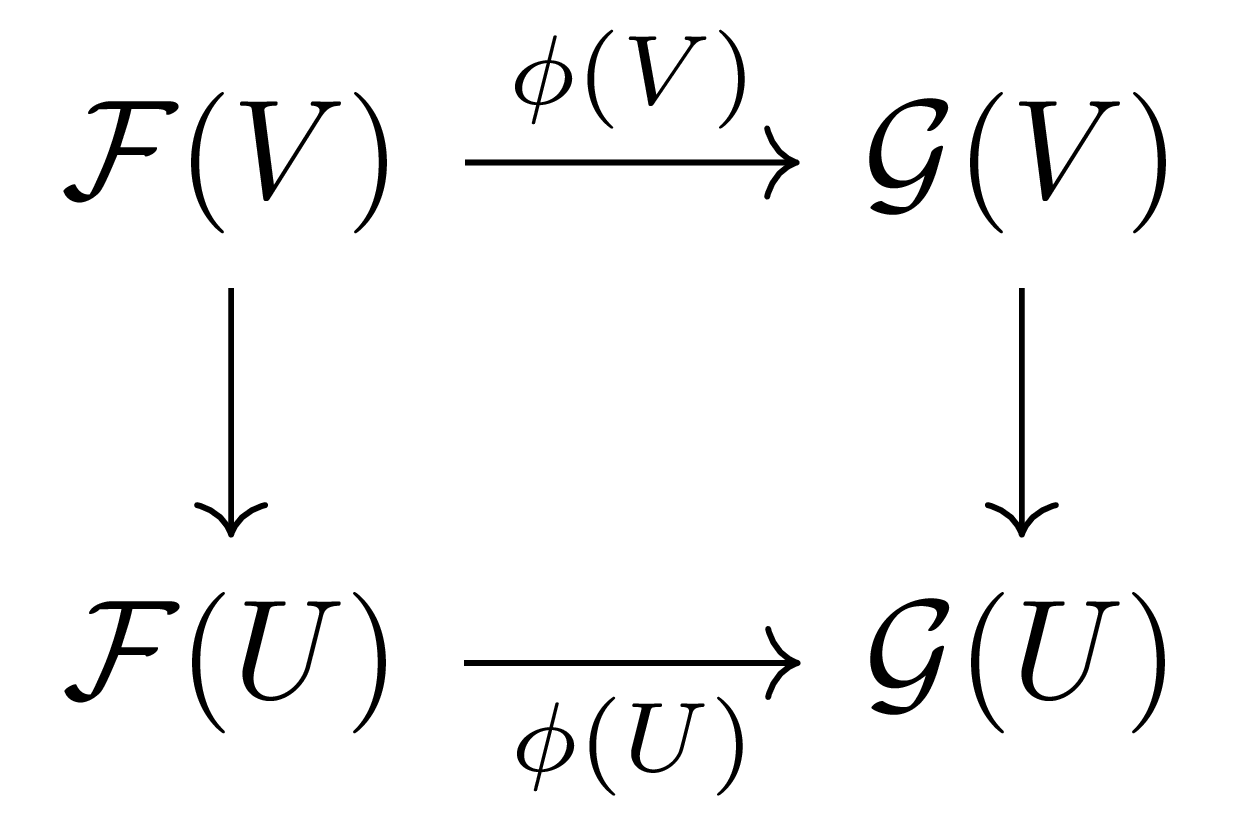
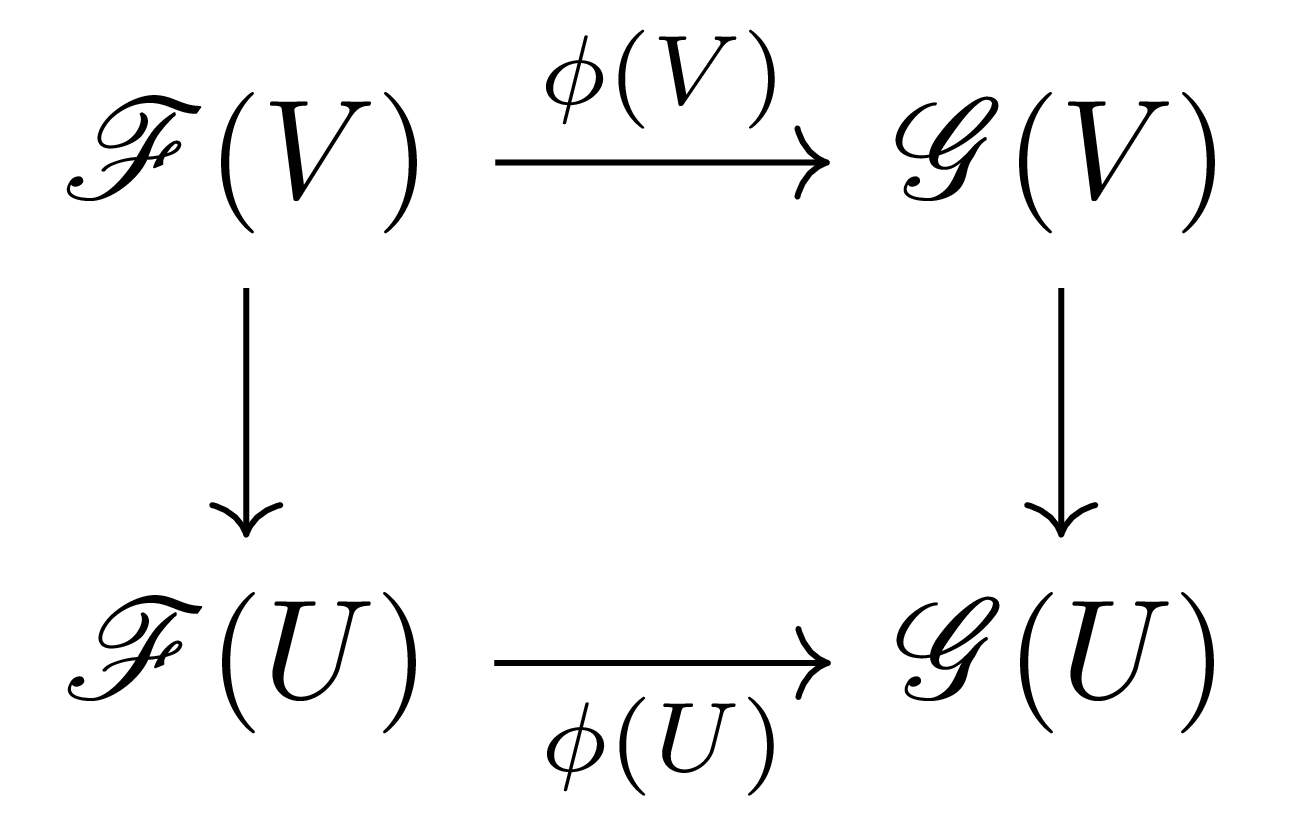
Posts (~20231114)

diff --git a/_includes/scripts.html b/_includes/scripts.html
@@ -109,6 +109,7 @@
               "\\Omat":"\\operatorname{O}",
               "\\Umat":"\\operatorname{U}",
               "\\Spec":"\\operatorname{Spec}",
+              "\\Proj":"\\operatorname{Proj}",
               "\\Stab":"\\operatorname{Stab}",
               "\\Frac":"\\operatorname{Frac}",
               "\\proj":"\\operatorname{proj}",

diff --git a/_posts/Math/Algebraic_Geometry/ko/2023-11-01-Schemes.md b/_posts/Math/Algebraic_Geometry/ko/2023-11-01-Schemes.md
@@ -39,8 +39,58 @@ Structure sheaf에 대한 정보 없이, $X$를 위상공간으로만 취급할 
 
 <div class="example" markdown="1">
 
-<ins id="ex3">**예시 3**</ins> Field $k$에 대하여, *affine $n$-space* $\mathbf{A}_k^n$을 affine scheme $\Spec k[x_1,\ldots, x_n]$으로 정의한다. $\mathbf{A}
-_k^n$는 아주 많은 점들을 가지고 있지만, 만일 $k$가 algebraically closed라면 Hilbert's Nullstellensatz에 의해 $\mathbf{A}_k^n$의 *closed* point들, 즉 $k[x_1,\ldots, x_n]$의 maximal ideal들은 정확히 $(x_1-a_1,\ldots, x_n-a_n)$의 꼴을 갖는 ideal들이라는 것을 안다. 이들은 각각 $k^n$의 점 $(a_1,\ldots, a_n)$에 대응되는 것으로 생각할 수 있다.
-
+<ins id="ex3">**예시 3**</ins> Field $k$에 대하여, *affine $n$-space* $\mathbb{A}_k^n$을 affine scheme $\Spec k[x_1,\ldots, x_n]$으로 정의한다. $\mathbb{A}
+_k^n$는 아주 많은 점들을 가지고 있지만, 만일 $k$가 algebraically closed라면 Hilbert's Nullstellensatz에 의해 $\mathbb{A}_k^n$의 *closed* point들, 즉 $k[x_1,\ldots, x_n]$의 maximal ideal들은 정확히 $(x_1-a_1,\ldots, x_n-a_n)$의 꼴을 갖는 ideal들이라는 것을 안다. 이들은 각각 $k^n$의 점 $(a_1,\ldots, a_n)$에 대응되는 것으로 생각할 수 있다.
 
 </div>
+
+Scheme을 이루는 정보들은 모두 작은 조각을 붙여서 global한 정보를 얻어낼 수 있게 되어 있으므로, 두 scheme을 붙이는 방법 또한 존재해야 한다.
+
+<div class="example" markdown="1">
+
+<ins id="ex4">**예시 4**</ins> 두 scheme $X\_1,X\_2$가 주어졌다 하고, 두 열린집합 $U\_1\subseteq X\_1$, $U\_2\subseteq X\_2$에 대하여 isomorphism $\phi:(U\_1,\mathscr{O}\_{X\_1}\vert\_{U\_1}) \rightarrow (U\_2,\mathscr{O}\_{X\_2}\vert\_{U\_2})$가 주어졌다 하자. 
+
+그럼 우선 $\phi$를 통해 $X\_1$과 $X\_2$를 위상공간으로서 붙여서 새로운 위상공간 $X=X\_1\cup\_\phi X\_2$를 만들 수 있다. 또, structure sheaf의 경우에는 함수를 정의할 때 $X$에서 $X_1$과 $X_2$이 만나는 부분에서 compatible한 함수들만 모아두면 된다. 즉 임의의 열린집합 $V\subseteq X$에 대하여, 
+
+$$\mathscr{O}_X(V)=\{(s_1, s_2):s_\alpha\in \mathscr{O}_{X_\alpha}(i^{-1}_\alpha(V)),\quad \phi(s_1\vert_{i_1^{-1}(V)\cap U_1})=s_2\vert_{i_2^{-1}(V)\cap U_2}\}$$
+
+으로 정의한다. 
+
+</div>
+
+## Projective scheme
+
+이제 우리는 projective scheme을 정의한다. 이는 graded ring $S=\bigoplus\_{d=0}^\infty S\_d$로부터 얻어진다. $S$의 ideal $\bigoplus\_{d>0}S\_d$를 $S\_+$로 적자. 그럼 집합으로서 $\Proj S$는 $S_+$를 포함하지 않는 homogeneous prime ideal들의 모임이다. 이 위에 위상구조를 주기 위해 우리는 [§Locally ringed space, ⁋보조정리 1](/ko/math/algebraic_geometry/locally_ringed_spaces#lem1)과 비슷한 다음 보조정리를 사용한다.
+
+<div class="proposition" markdown="1">
+
+<ins id="lem5">**보조정리 5**</ins> (Hart 2.4)
+
+</div>
+
+이 보조정리의 결과에 의하여 $\Proj S$는 위상공간이 된다. 
+
+이제 $\Proj S$를 scheme으로 보기 위해서는 이 위에 structure sheaf를 정의해야 한다. 각각의 $\mathfrak{p}\in \Proj S$에 대하여, $\mathfrak{p}$에 속하지 않는 homogeneous element들을 역원으로 넣어줘서 생긴 ring을 $S_{(\mathfrak{p})}$라 하자. 그럼 [§Locally ringed space, ⁋보조정리 1](/ko/math/algebraic_geometry/locally_ringed_spaces#lem1) 이후에 정의한 것과 마찬가지로, $\mathscr{O}(U)$의 원소들을 각 점 $\mathfrak{p}$에서의 값이 $S_{(\mathfrak{p})}$에 속하는 함수 $s:U \rightarrow\coprod S_{(\mathfrak{p}}$들 중, $s$가 local하게는 $S$의 원소의 quotient로 쓰여지는 함수들의 모임으로 정의하면 된다. 
+
+다음 명제는 [§Locally ringed space, ⁋명제 4](/ko/math/algebraic_geometry/locally_ringed_spaces#pp4)에 대응되는 명제이다.
+
+<div class="proposition" markdown="1">
+
+<ins id="prop6">**명제 6**</ins> 위에서 정의한 $(\Proj S, \mathscr{O})$에 대하여 다음이 성립한다.
+
+1. 임의의 $\mathfrak{p}\in \Proj S$에 대하여, $\mathscr{O}/\\_{\mathfrak{p}}$는 $S\_{(\mathfrak{p})}$와 isomorphic하다.
+2. 임의의 homogeneous element $f\in A$에 대하여, $D_+(f)=\\{\mathfrak{p}\in\Proj S: f\not\in \mathfrak{p}\\}$로 정의하면 $D_+(f)$들은 $\Proj S$의 open cover가 되며, locally ringed space들 사이의 isomorphism
+    
+    $$(D_+(f),\mathscr{O}\vert_{D_+(f)}\cong\Spec S_{(f)}$$
+
+    이 존재한다. 여기서 $S_{(f)}$는 $S_f$의 degree $0$ part이다.
+3. 따라서 $\Proj S$는 scheme이다.
+
+</div>
+<details class="proof" markdown="1">
+<summary>증명</summary>
+
+
+
+</details>
+

diff --git a/_posts/Math/Algebraic_Geometry/ko/2023-11-04-Properties_of_schemes.md b/_posts/Math/Algebraic_Geometry/ko/2023-11-04-Properties_of_schemes.md
@@ -1,0 +1,19 @@
+---
+
+title: "스킴의 성질들"
+excerpt: ""
+
+categories: [Math / Algebraic Geometry]
+permalink: /ko/math/algebraic_geometry/properties_of_schemes
+header:
+    overlay_image: /assets/images/Math/Algebraic_Geometry/Properties_of_schemes.png
+    overlay_filter: 0.5
+sidebar: 
+    nav: "algebraic_geometry-ko"
+
+date: 2023-11-04
+last_modified_at: 2023-11-04
+weight: 5
+
+---
+

diff --git a/_posts/Math/Algebraic_Geometry/ko/2023-04-15-Presheaves.md b/_posts/Math/Algebraic_Geometry/ko/2023-04-15-Presheaves.md
@@ -115,7 +115,7 @@ $$\bigl((\mathscr{F}(U))_{U\in\mathscr{T}},(\rho_{VU})_{V\leq U}\bigr)$$
 - 각각의 열린집합 $U\subseteq X$마다, $U\mapsto \ker(\phi(U))$
 - 포함관계에 있는 두 열린집합 $U\subseteq V$마다 다음의 diagram
   
-  img
+  ![presheaf_kernel-1](/assets/images/Math/Algebraic_Geometry/Presheaves-2.png){:width="421.05px" class="invert" .align-center}
 
   을 통해 유일하게 결정되는 restriction map $\rho_{VU}:\ker(\phi(V))\rightarrow\ker(\phi(U))$
 
@@ -133,16 +133,22 @@ $$\bigl((\mathscr{F}(U))_{U\in\mathscr{T}},(\rho_{VU})_{V\leq U}\bigr)$$
 <details class="proof" markdown="1">
 <summary>증명</summary>
 
-다음의 두 diagram
+다음의 diagram
 
-img
+![presheaf_kernel-2](/assets/images/Math/Algebraic_Geometry/Presheaves-3.png){:width="438.75px" class="invert" .align-center}
 
 와 kernel의 universal property에 의해 자명하다. 
 
 </details>
 
-이와 마찬가지 방법으로, *presheaf cokernel*, *presheaf image*, *presheaf coimage* 혹은 *presheaf quotient* 등등을 모두 정의할 수 있다. 두 presheaf $\mathscr{F},\mathscr{G}$의 coproduct $\mathscr{F}\oplus\mathscr{G}$는 $U\mapsto \mathscr{F}(U)\times\mathscr{G}(U)$으로 정의된다. 
+이와 마찬가지 방법으로, *presheaf cokernel*, *presheaf image*, *presheaf coimage* 혹은 *presheaf quotient* 등등을 모두 정의할 수 있다. 두 presheaf $\mathscr{F},\mathscr{G}$의 coproduct $\mathscr{F}\oplus\mathscr{G}$는 $U\mapsto \mathscr{F}(U)\times\mathscr{G}(U)$으로 정의된다. 따라서 주어진 위상공간 $X$ 위에서 정의된 abelian presheaf들의 카테고리 $\PSh^\Ab(X)$은 abelian category가 된다.
 
-a
+---
+**참고문헌**
+
+**[Har]** R. Hartshorne, *Algebraic geometry*. Graduate texts in mathematics. Springer, 1977.  
+**[Vak]** R. Vakil, *The rising sea: Foundation of algebraic geometry*. Available [online](https://math.stanford.edu/~vakil/216blog/). 
+
+---
 
 [^1]: Functor $\mathscr{F}$가 contravariant이기 때문에, 어디에선가는 포함관계를 반대로 뒤집어주어야 한다.